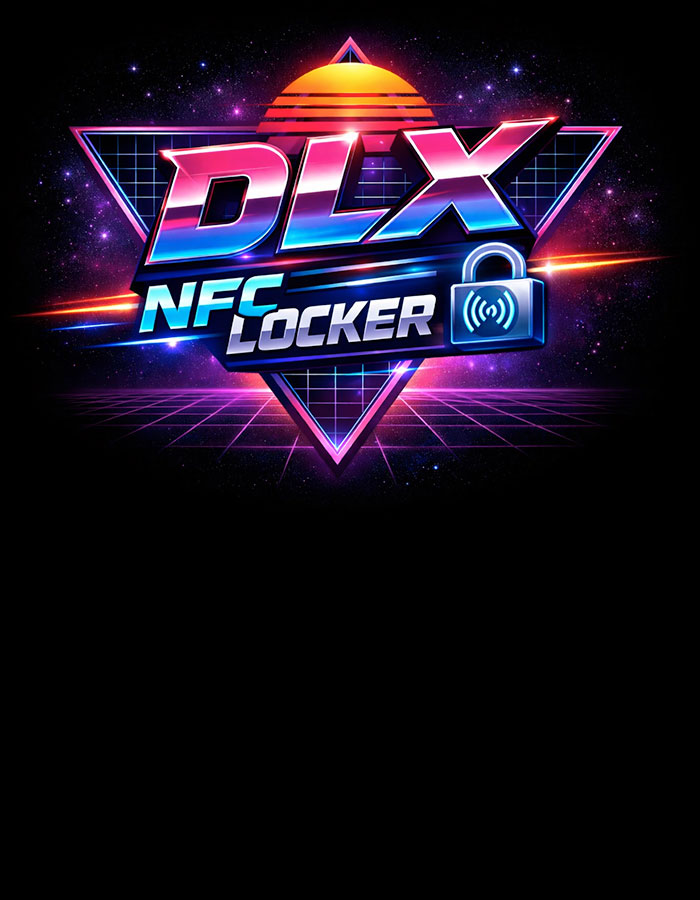
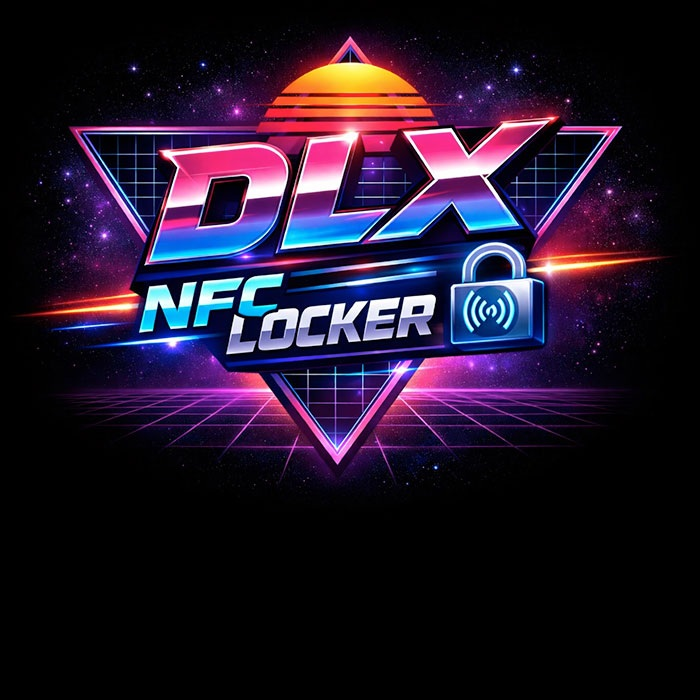
added registration timestamps and new app bg

diff --git a/card_reader_app.py b/card_reader_app.py
@@ -198,7 +198,7 @@ class AccessControlApp:
         self.root.overrideredirect(True)
         
         # Default size
-        w, h = 700, 900
+        w, h = 700, 700
 
         # Center the window
         ws = self.root.winfo_screenwidth()
@@ -225,12 +225,11 @@ class AccessControlApp:
                 print(f"Could not load background: {e}")
 
         # Draw Text
-        current_y = 700 # Center vertically
         
         # Assuming black text ensures visibility if previously white background
         text_color = "black" if not self.bg_photo else "white" 
         
-        self.text_id = self.canvas.create_text(w/2, current_y, text="Waiting for card...", 
+        self.text_id = self.canvas.create_text(w/2, h - 150, text="Waiting for card...", 
                                              font=("Arial", 20), fill=text_color, justify="center")
         
         self.timer_id = self.canvas.create_text(w/2, h - 50, text="", 
@@ -240,7 +239,7 @@ class AccessControlApp:
         self.last_user_name = None
         
         self.no_card_start_time = time.time()
-        self.TIMEOUT_SECONDS = 20
+        self.TIMEOUT_SECONDS = 10
         self.last_display_text = ""
         
         # Start the check loop

diff --git a/add_user.py b/add_user.py
@@ -9,9 +9,12 @@ import os
 import time
 import msvcrt
 import sys
+from datetime import datetime
+import pytz
 
 # File paths
 USERS_FILE = "authorized_users.json"
+JAPAN_TZ = pytz.timezone('Asia/Tokyo')
 
 # Get UID/IDm command (works for most contactless cards)
 GET_UID_CMD = [0xFF, 0xCA, 0x00, 0x00, 0x00]
@@ -82,7 +85,8 @@ def save_user_to_file(name, card_number):
         
     data["users"].append({
         "name": name,
-        "card_number": card_number
+        "card_number": card_number,
+        "updated_at": datetime.now(JAPAN_TZ).strftime("%Y-%m-%d %H:%M:%S JST")
     })
     
     try:
